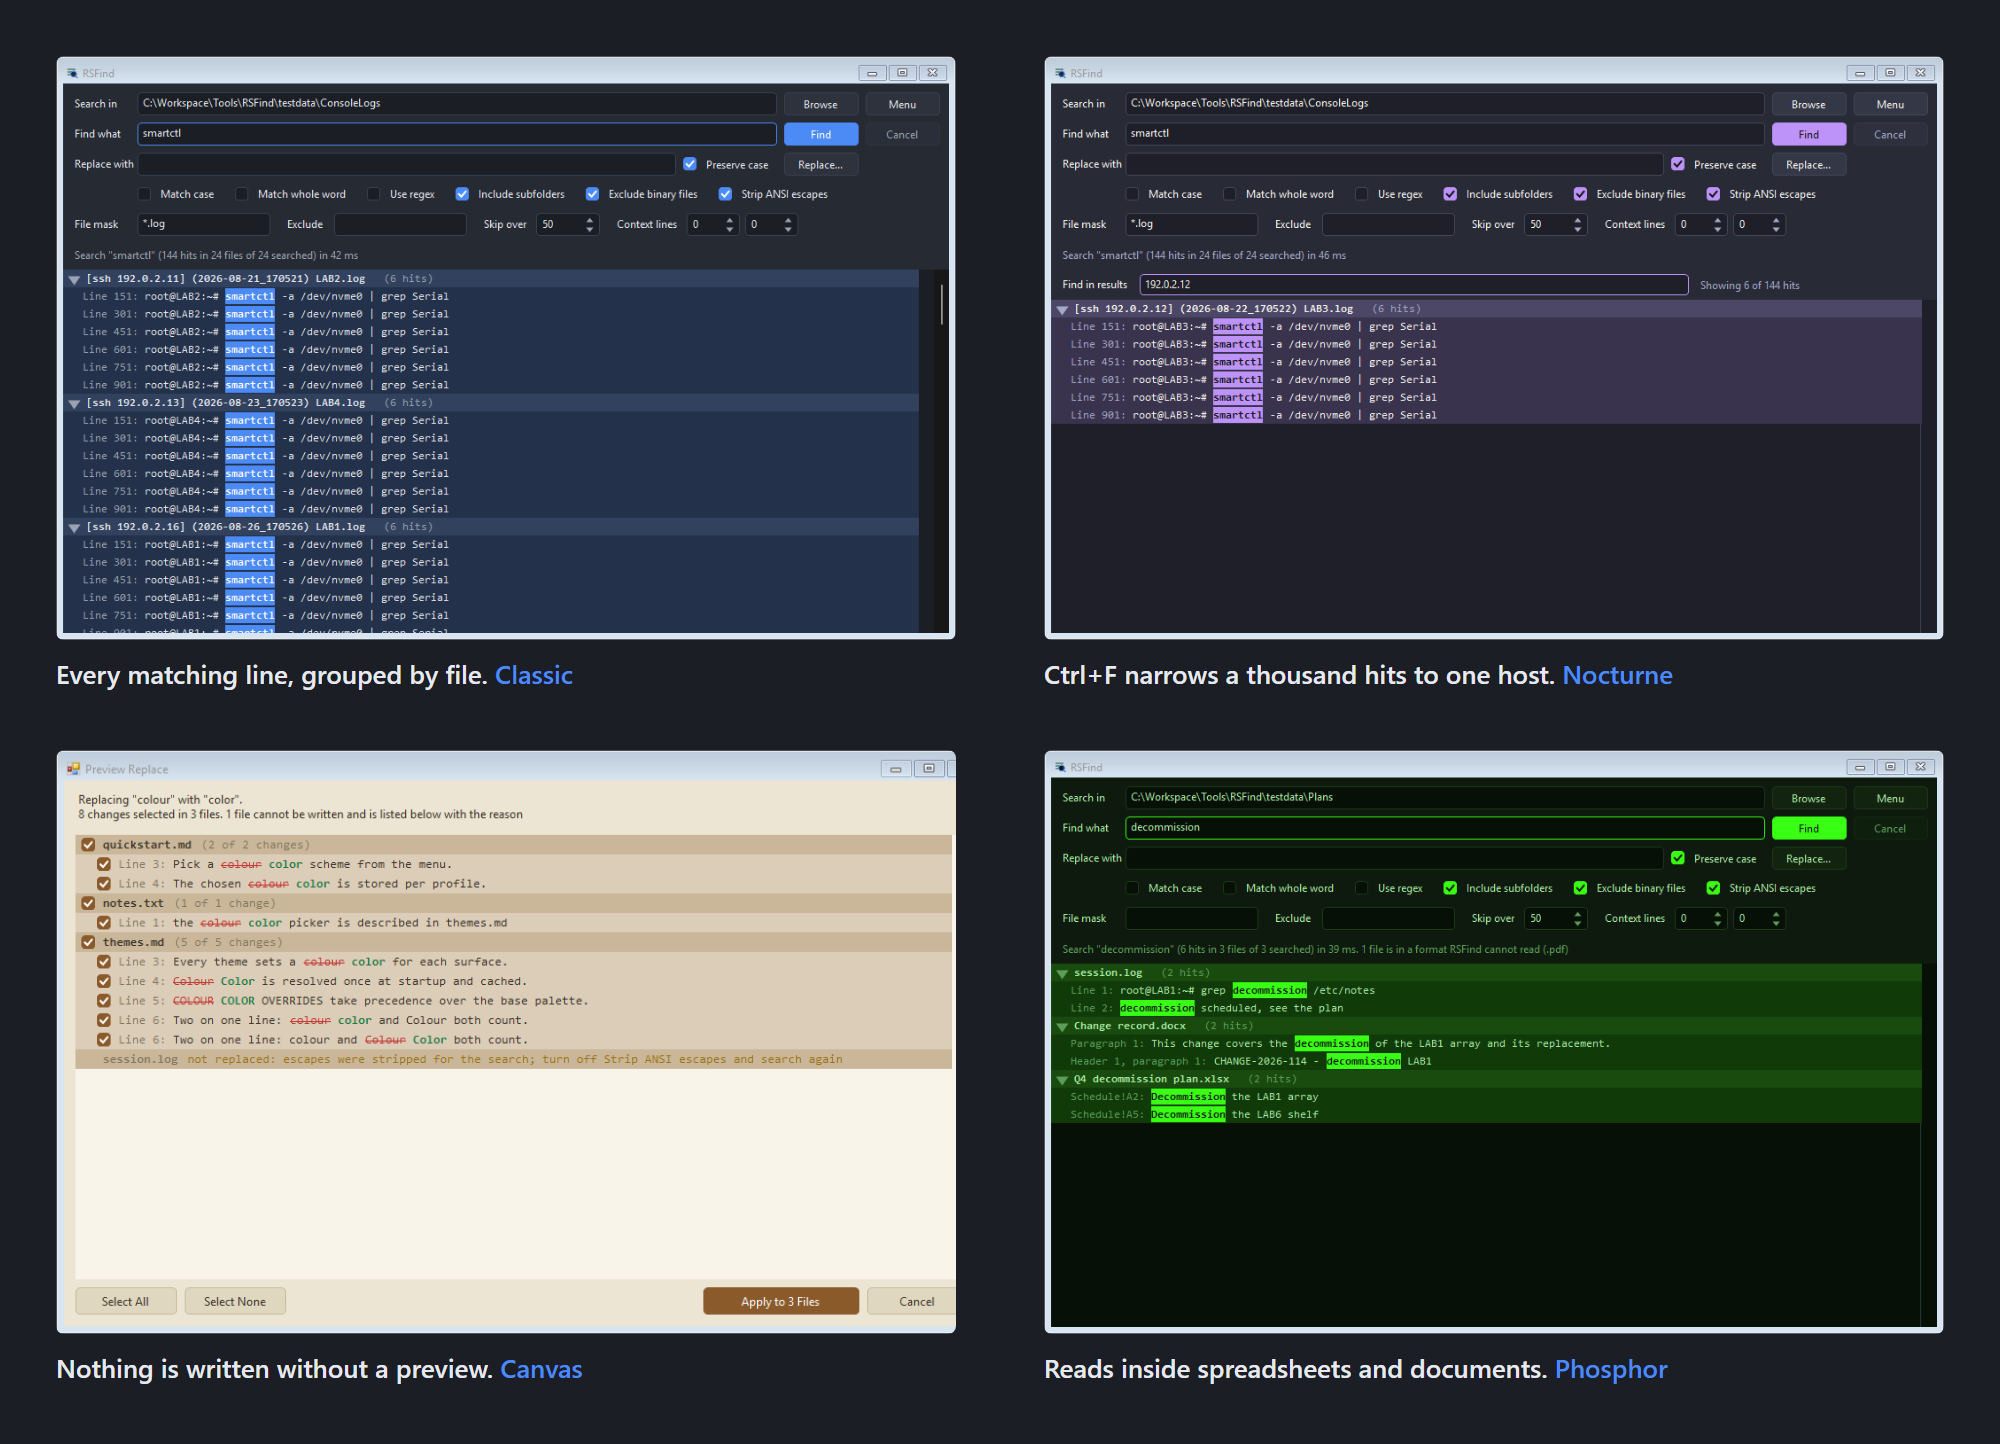
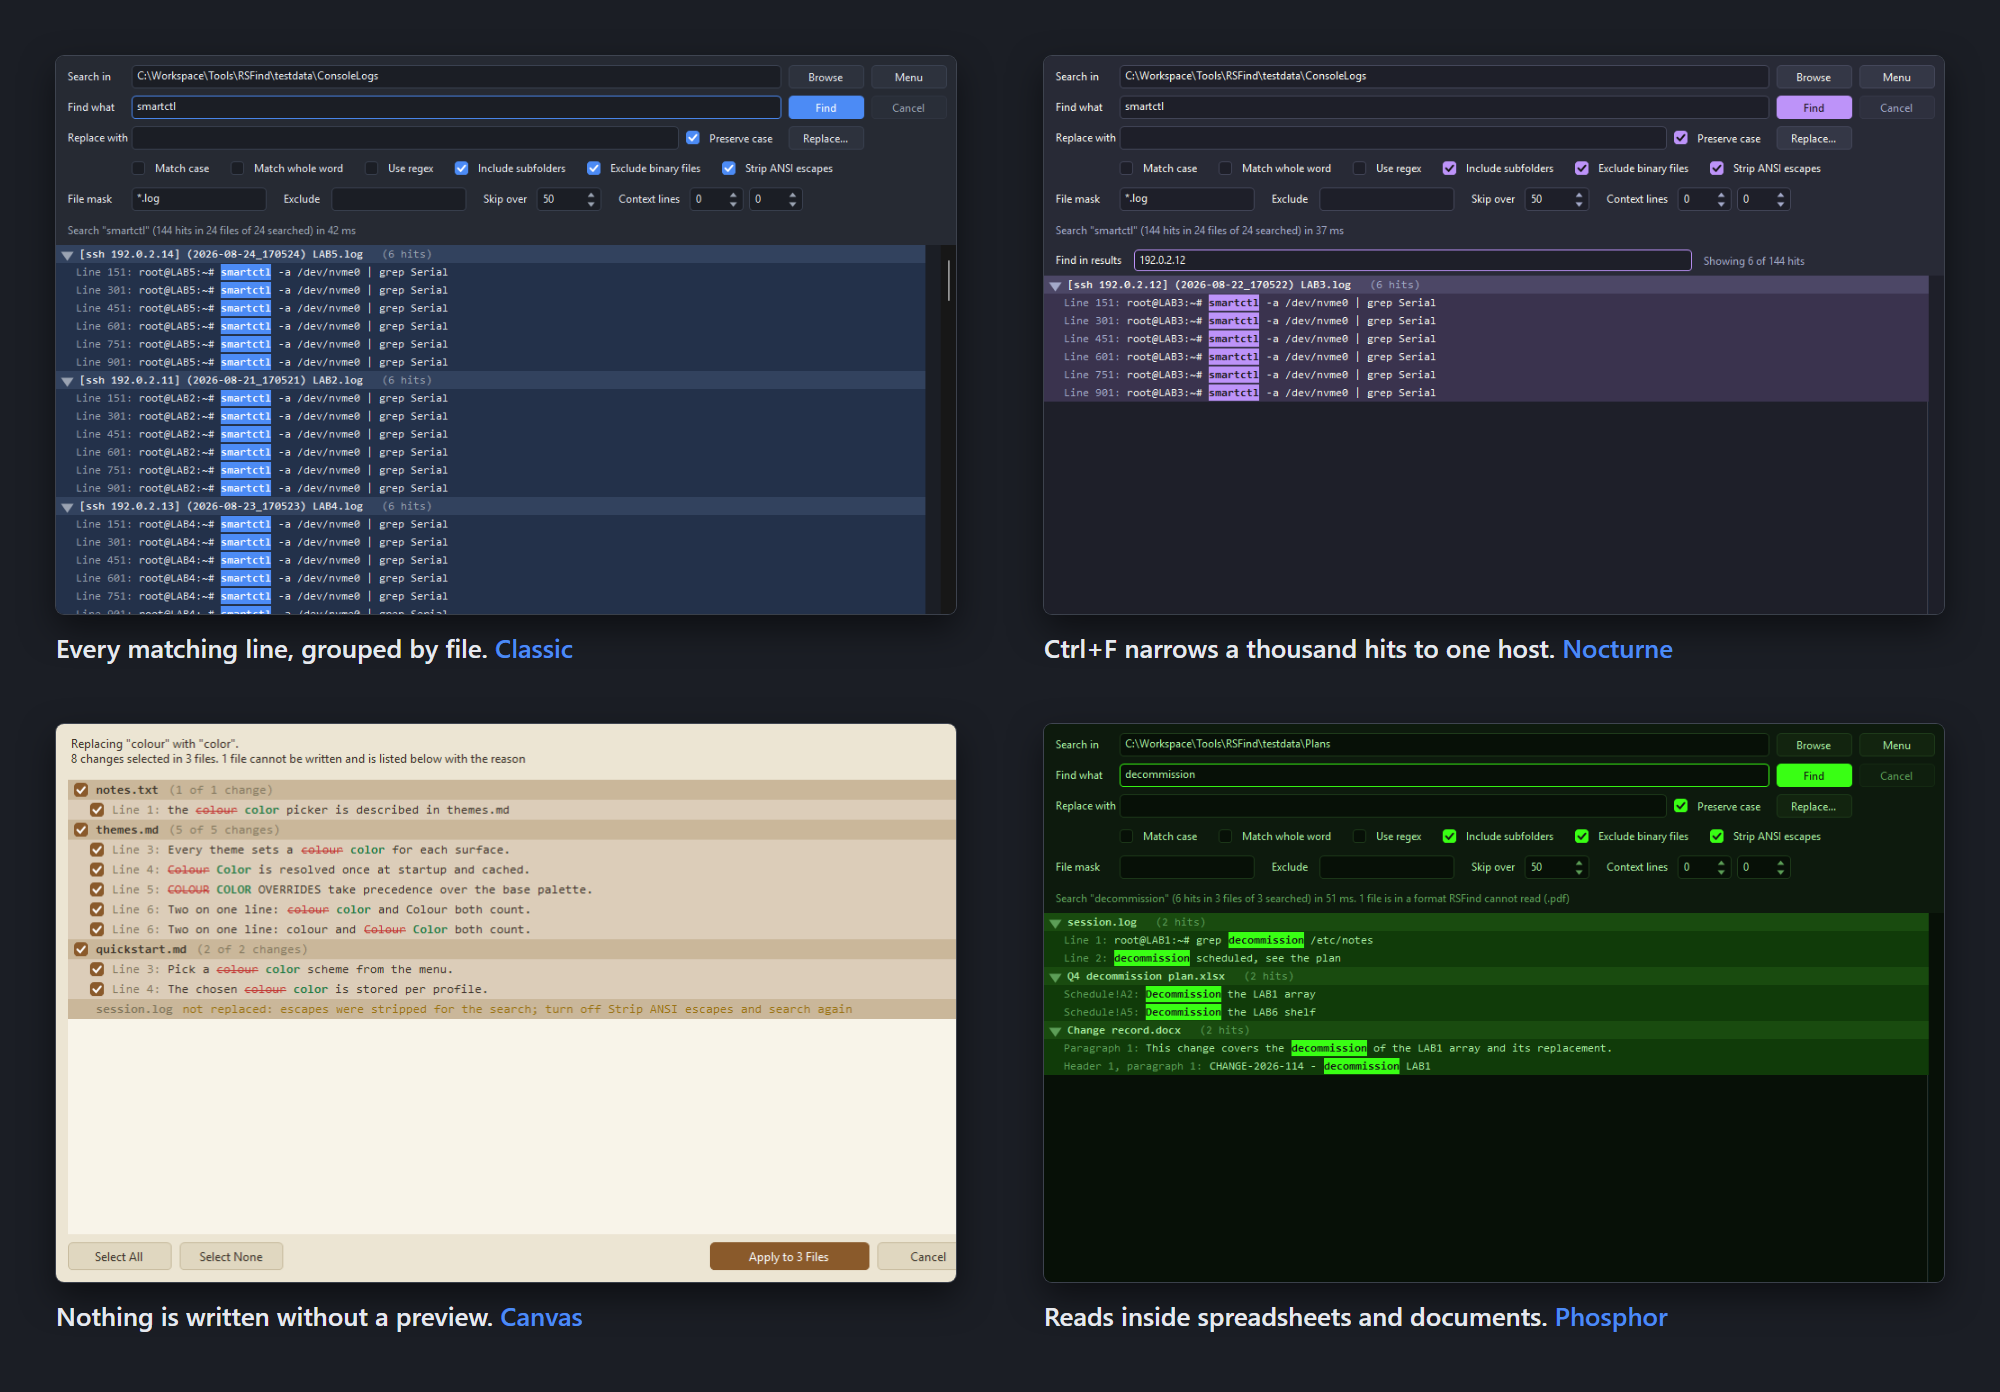
Crop the screenshot panels to the client area
The first version of the hero and social images carried a Windows 7 looking
title bar rendered in its inactive colors, which is not what RSFind looks like
on any machine it runs on.

A window's title bar and border are not painted by the window on anything since
Vista; the Desktop Window Manager composites them from a separate surface. A
capture taken inside the process therefore cannot see them. DrawToBitmap sends
WM_PRINT, which asks the window to draw a frame it does not own, and gets back
the legacy DefWindowProc caption - inactive, because an automated session has no
foreground window for the form to become. PrintWindow with PW_RENDERFULLCONTENT
returns a different wrong frame rather than a right one.

Confirmed rather than assumed: capturing twice with DWMWA_USE_IMMERSIVE_DARK_MODE
set to 1 and then 0 produced byte-identical title bars. That attribute changes
only the DWM frame, so the capture is not consulting DWM at all.

The panels are now the client area, which is the app's own painting and is
captured faithfully, and the frame is drawn by the HTML. That is the better
answer regardless of the mechanism: a real frame in a product shot varies with
the Windows version, the accent color, and the light or dark setting of the
machine that took it, none of which are facts about RSFind. DEPLOY.md records
how to swap in real captures if the family look is wanted instead.

charcheck earned the .html extension it gained an hour ago by catching a British
[…]

Changed region(s): [[0.0, 0.0309, 0.992, 0.9576]]

diff --git a/docs/src/hero.html b/docs/src/hero.html
@@ -4,18 +4,38 @@
 <meta charset="utf-8">
 <!-- Source for docs/hero-quadrants.png. Rendered by:
        powershell -File tools\Render-Png.ps1 -Html docs\src\hero.html `
-           -Out docs\hero-quadrants.png -Width 2000 -Height 1444
+           -Out docs\hero-quadrants.png -Width 2000 -Height 1392
      Composed as HTML rather than drawn, so a caption typo is a one-line fix and
      a re-render instead of an image edit. Colors are the Classic palette.
      Panel screenshots are real captures, kept in docs/src/panels, and each one
      shows a different thing the tool does rather than the same window in four
      colors. The hosts and addresses in them are invented: LAB1 to LAB6 on the
-     RFC 5737 documentation range. -->
+     RFC 5737 documentation range.
+
+     THE PANELS ARE CLIENT AREA ONLY, and the frame below is drawn here.
+
+     A window's title bar and border are not painted by the window on anything
+     since Vista; the Desktop Window Manager composites them from a separate
+     surface. A capture taken inside the process therefore cannot see them:
+     DrawToBitmap sends WM_PRINT, which asks the window to draw a frame it does
+     not own, and gets back the legacy DefWindowProc caption - the one that
+     looks like Windows 7, in its inactive colors because a headless session has
+     no foreground window. Flipping the dark-title-bar attribute between two
+     captures produced byte-identical title bars, which is the proof.
+
+     Cropping to the client area is also the better answer regardless. A real
+     frame in a product shot varies with the Windows version, the accent color,
+     and the light or dark setting of whatever machine took the picture, none of
+     which are facts about RSFind.
+
+     To use real frames instead, take four screenshots on an interactive
+     desktop, drop them into docs/src/panels under the same names, and
+     re-render. Nothing else changes. -->
 <style>
   html, body {
     margin: 0;
     width: 2000px;
-    height: 1444px;
+    height: 1392px;
     overflow: hidden;
     background: #1b1e25;
     font-family: "Segoe UI", system-ui, sans-serif;
@@ -23,11 +43,11 @@
   .grid {
     box-sizing: border-box;
     width: 2000px;
-    height: 1444px;
+    height: 1392px;
     padding: 56px;
     display: grid;
     grid-template-columns: 900px 900px;
-    grid-template-rows: 638px 638px;
+    grid-template-rows: 612px 612px;
     column-gap: 88px;
     row-gap: 56px;
   }
@@ -37,11 +57,15 @@
      reads as a mistake. */
   .cell img {
     width: 900px;
-    height: 584px;
+    height: 558px;
     display: block;
     border-radius: 8px;
     object-fit: cover;
     object-position: top left;
+    /* The frame the OS would have drawn. A mid-gray ring rather than a white
+       or black one, because three of these panels are dark and one is not. */
+    box-shadow: 0 0 0 1px rgba(128, 140, 160, 0.38),
+                0 14px 34px rgba(0, 0, 0, 0.5);
   }
   .cap {
     height: 40px;

diff --git a/docs/src/social.html b/docs/src/social.html
@@ -53,15 +53,19 @@
   .right { position: relative; width: 620px; height: 640px; overflow: hidden; }
   /* A real capture, cropped rather than mocked up, and wide enough to bleed off
      the card edge instead of floating in the middle. */
+  /* Client area only, framed here. The title bar cannot be captured from
+     inside the process - see the note in hero.html - and a real one would vary
+     with the Windows version and accent color of whatever machine took it. */
   .shot {
     position: absolute;
-    top: 73px; left: 36px;
-    width: 760px; height: 493px;
+    top: 84px; left: 36px;
+    width: 760px; height: 471px;
     border-radius: 10px;
     overflow: hidden;
-    box-shadow: 0 18px 48px rgba(0,0,0,0.55);
+    box-shadow: 0 0 0 1px rgba(128, 140, 160, 0.38),
+                0 18px 48px rgba(0, 0, 0, 0.55);
   }
-  .shot img { width: 760px; height: 493px; display: block; }
+  .shot img { width: 760px; height: 471px; display: block; }
 </style>
 </head>
 <body>

diff --git a/DEPLOY.md b/DEPLOY.md
@@ -133,6 +133,34 @@ hosts and addresses in them are invented - `LAB1` to `LAB6` on the RFC 5737
 documentation range - and that is a rule, not a convenience: no real hostname
 or address belongs in a tracked file, screenshots included.
 
+### Why the panels have no title bar
+
+They are the client area only, and the frame around them is drawn by the HTML.
+
+A window's title bar and border are not painted by the window on anything since
+Vista - the Desktop Window Manager composites them from a separate surface. A
+capture taken from inside the process therefore cannot see them.
+`Control.DrawToBitmap` sends `WM_PRINT`, which asks the window to draw a frame
+it does not own, and gets back the legacy `DefWindowProc` caption: the one that
+looks like Windows 7, in its inactive colors because an automated session has
+no foreground window for the form to become. `PrintWindow` with
+`PW_RENDERFULLCONTENT` returns a different wrong frame rather than a right one.
+
+The proof, if you want to repeat it: capture twice with
+`DWMWA_USE_IMMERSIVE_DARK_MODE` set to 1 and then 0. That attribute changes only
+the DWM frame. The two title bars come back byte-identical, so the capture is
+not seeing DWM at all.
+
+Cropping is also the better answer regardless of the mechanism. A real frame in
+a product shot varies with the Windows version, the accent color, and the light
+or dark setting of whatever machine took the picture, none of which are facts
+about RSFind.
+
+**To use real frames instead**, take four screenshots on an interactive desktop,
+drop them into `docs/src/panels/` under the same names, and re-render. Nothing
+else changes, and the HTML frame will simply sit behind a picture that already
+has one - remove the `box-shadow` ring in that case.
+
 **The social preview has to be uploaded through GitHub's repository settings.**
 Committing the file only versions it; it does not become the card. That upload
 is only possible once the repository is public.

diff --git a/CHANGELOG.md b/CHANGELOG.md
@@ -2,6 +2,19 @@
 
 ## Unreleased
 
+**The screenshot panels are the client area only, framed by the HTML.** The
+first version carried a Windows 7 looking title bar in its inactive colors,
+which is not what the app looks like on any machine it runs on. A window's
+frame is composited by the Desktop Window Manager, not painted by the window,
+so a capture taken inside the process cannot see it: `DrawToBitmap` sends
+`WM_PRINT`, which asks the window for a frame it does not own and gets the
+legacy `DefWindowProc` caption back. Confirmed by flipping the dark-title-bar
+attribute between two captures and getting byte-identical title bars.
+
+Cropping is the better answer anyway. A real frame in a product shot varies
+with the Windows version, accent color, and light or dark setting of whatever
+machine took the picture, none of which are facts about RSFind.
+
 **Hero and social preview images, composed as HTML.** `docs/src/hero.html` and
 `docs/src/social.html` are rendered to PNG by `tools/Render-Png.ps1` using the
 headless Chrome or Edge already on the machine. The layout is text, so a
